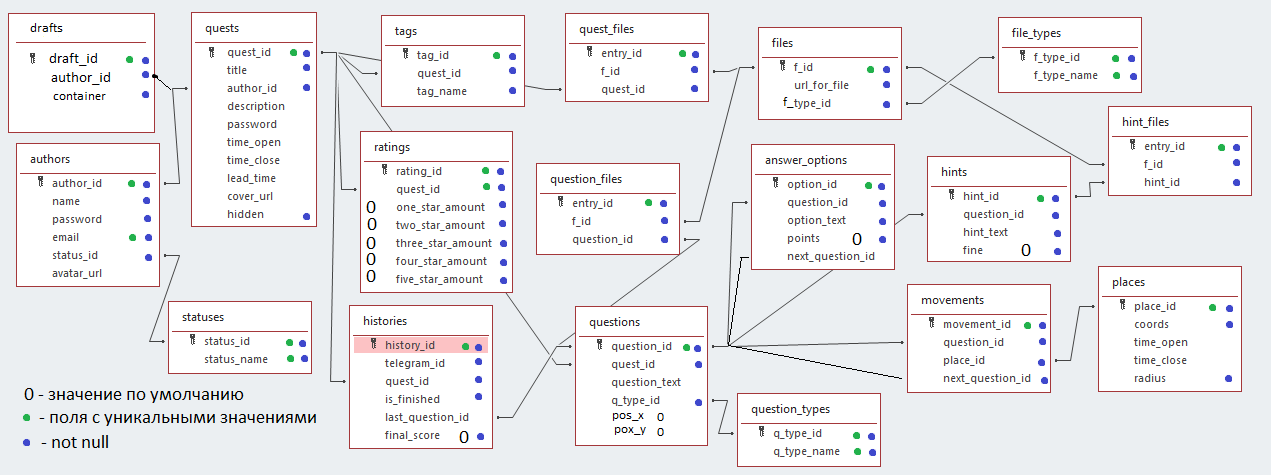
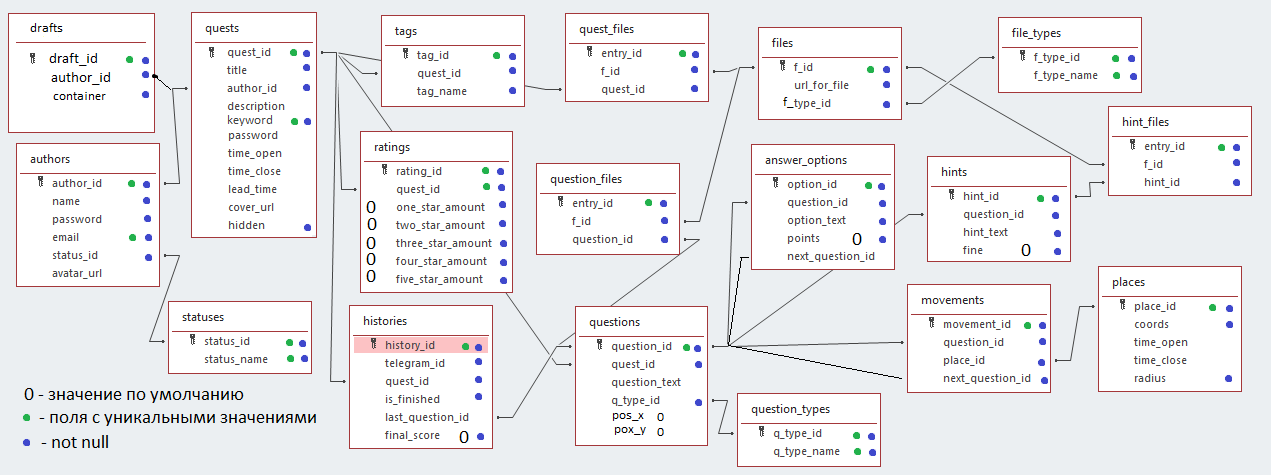
Add keyword to db #236

Changed region(s): [[0.1534, 0.2358, 0.2455, 0.5011]]

diff --git a/docs/db_description.md b/docs/db_description.md
@@ -29,6 +29,8 @@ In the future, their content may be supplemented for the expansion of functional
 ### Quests
 The "open_time" and "close_time" fields represent the opening date and time of the quest and the closing date and time, respectively. These fields do not ensure the cyclical opening of the quest, for example, it will not be possible to record 12:00 and 18:00 in the hope that the quest will open every day at 12 and close at 18.
 
+"keyword" is the unique 8-length string identifier     
+
 ### Draft quests
 Table with unpublished quests.
 
